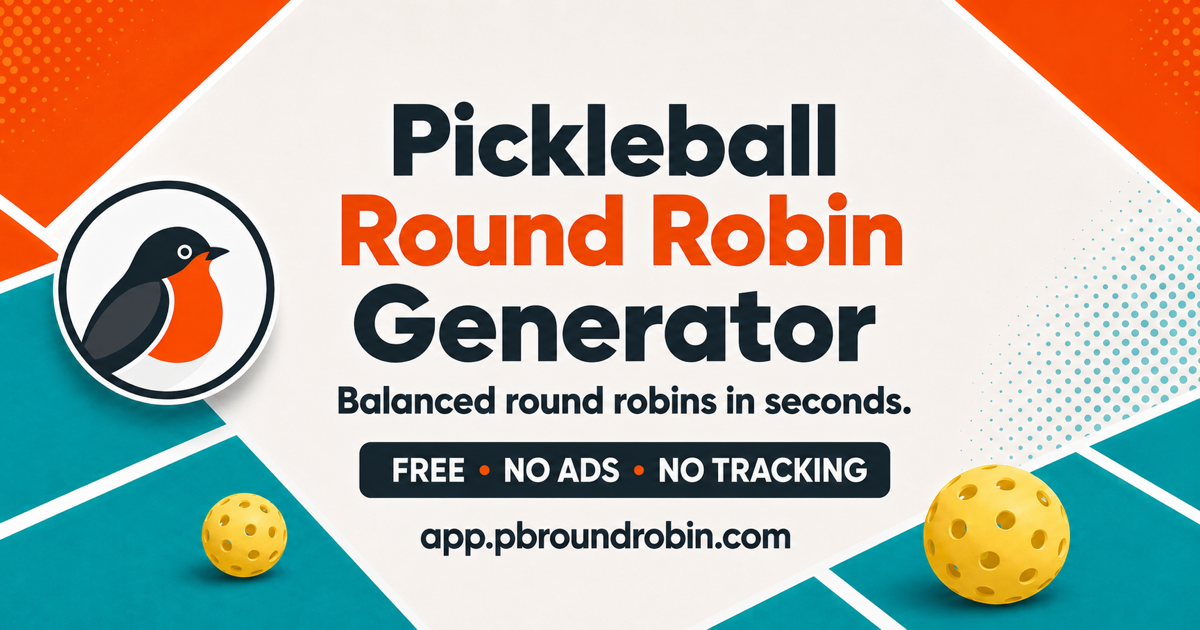
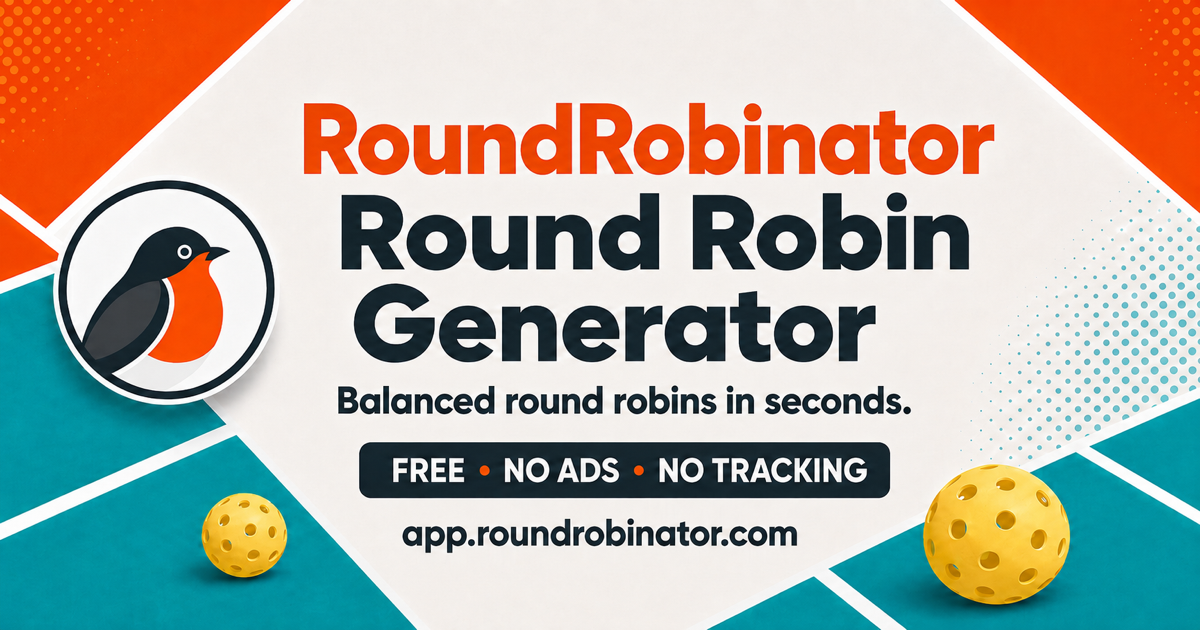
Ship 3.80: the app moves to roundrobinator.com, and the old address stays put
The rename of 3.79 was the copy half. This is the infrastructure half: the
address, the contact email, the Ko-fi page and the share banner.

APP_URL, FEEDBACK_EMAIL and DONATE_URL are still the only three places an
address is typed, and index.html is still the one file that has to write the
host out again for the share scrapers. appDomain.test.ts holds those two
together and bans the old host from the source, the way appName.test.ts does
for the old name.

app.pbroundrobin.com is deliberately not retired and must never be. Printed QR
codes carry it, and a browser keeps a site's stored data per address, so every
install made before today keeps its rosters in that origin. Redirecting it
would erase them with no way back. The other three old hostnames redirect and
are free to change. That one is not, which is why it is written into CLAUDE.md
and the comment above APP_URL as well as the product notes.

diff --git a/src/lib/appDomain.test.ts b/src/lib/appDomain.test.ts
@@ -1,0 +1,127 @@
+/**
+ * The app lives at app.roundrobinator.com, and it says so with one voice.
+ *
+ * Sibling of appName.test.ts, guarding the other half of the rebrand and
+ * against the same failure: not a broken build, but one surface still handing
+ * out the old address months later, rendering perfectly, seen by nobody who
+ * would recognise it as wrong. A QR code is the worst of these, because it is
+ * printed and carried to a court before anyone reads it.
+ *
+ * Three constants in appInfo.ts carry an address between them, and everything
+ * in the app reads from those three. `index.html` is the exception it cannot
+ * avoid: share-preview scrapers need absolute URLs and static HTML cannot
+ * import, so it writes the host out again and is checked against APP_URL here.
+ *
+ * ## What this file does NOT say
+ *
+ * The old host is banned from the source. It is emphatically **not** retired
+ * from the internet. `app.pbroundrobin.com` must keep serving this app, at that
+ * exact address, for good:
+ *
+ *   - printed schedules and QR codes already carry it to courts, and
+ *   - every home-screen install made before 2026-08-23 lives in that origin's
+ *     storage. A browser keeps a site's data per address. Point that host
+ *     anywhere else and those hosts open the app to an empty roster, with no
+ *     way back to their groups.
+ *
+ * That is the one change in this rebrand that would destroy user data, so it is
+ * written down here where somebody tidying up will read it.
+ */
+
+import { readdirSync, readFileSync, statSync } from 'node:fs';
+import { join, relative, resolve } from 'node:path';
+import { describe, expect, it } from 'vitest';
+import { APP_URL, DONATE_URL, FEEDBACK_EMAIL } from './appInfo';
+
+const root = resolve(__dirname, '../..');
+const src = resolve(root, 'src');
+const read = (path: string) => readFileSync(resolve(root, path), 'utf8');
+
+const DOMAIN = 'roundrobinator.com';
+
+/** Banned in the source. Still very much alive in DNS: see the note above. */
+const OLD_DOMAIN = 'pbroundrobin';
+
+/**
+ * The two files allowed to say the old host out loud. `appInfo.ts` records the
+ * move in the comment above APP_URL, together with the warning about never
+ * retiring it, which is where somebody changing that line will read it. This
+ * one has to hold the string in order to ban it.
+ */
+const HOME = 'src/lib/appInfo.ts';
+const SELF = 'src/lib/appDomain.test.ts';
+
+/**
+ * The static files, which have no build step and so cannot import a constant.
+ * `index.html` writes the host out for the scrapers; the two legal pages carry
+ * the contact address, and are the copy a store listing links to.
+ */
+const STATIC_FILES = ['index.html', 'public/privacy.html', 'public/terms.html'];
+
+function walk(dir: string): string[] {
+  return readdirSync(dir).flatMap((entry) => {
+    const full = join(dir, entry);
+    return statSync(full).isDirectory() ? walk(full) : [full];
+  });
+}
+
+const sources = walk(src)
+  .filter((f) => /\.(ts|tsx)$/.test(f))
+  .map((f) => relative(root, f).split('\\').join('/'));
+
+describe('the app has one address', () => {
+  it('finds the source files to check, so a passing suite is not an empty one', () => {
+    expect(sources.length).toBeGreaterThan(50);
+    expect(sources).toContain(SELF);
+    expect(sources).toContain(HOME);
+  });
+
+  it('points the three constants at it', () => {
+    expect(APP_URL).toBe(`https://app.${DOMAIN}/`);
+    expect(FEEDBACK_EMAIL).toBe(`jeff@${DOMAIN}`);
+    expect(DONATE_URL).toBe('https://ko-fi.com/roundrobinator');
+  });
+
+  it('ends APP_URL with a slash, because share links are built by appending', () => {
+    // `${APP_URL}?s=CODE` is what a QR code encodes. Drop the slash and every
+    // printed code carries a malformed URL that no test of the QR itself would
+    // notice, because the encoding would still be perfect.
+    expect(APP_URL.endsWith('/')).toBe(true);
+    expect(() => new URL(APP_URL)).not.toThrow();
+    expect(new URL(`${APP_URL}?s=ABCDEFGHJK`).host).toBe(`app.${DOMAIN}`);
+  });
+
+  it('has left nothing behind under the old one', () => {
+    const stale = sources
+      .filter((f) => f !== HOME && f !== SELF)
+      .filter((f) => read(f).includes(OLD_DOMAIN));
+    expect(stale).toEqual([]);
+  });
+});
+
+describe('the files that cannot import it', () => {
+  for (const file of STATIC_FILES) {
+    it(`${file} carries the address, and only the current one`, () => {
+      const text = read(file);
+      expect(text).toContain(DOMAIN);
+      expect(text).not.toContain(OLD_DOMAIN);
+    });
+  }
+
+  it('gives the scrapers the same host the app hands out', () => {
+    // A share preview pointing at one host while Share App sends another is the
+    // sort of split nobody sees until a link previews as the wrong thing.
+    const html = read('index.html');
+    expect(html).toContain(`<meta property="og:url" content="${APP_URL}" />`);
+    for (const tag of ['og:image', 'twitter:image']) {
+      const found = html.match(new RegExp(`${tag}" content="([^"]+)"`))?.[1];
+      expect(found).toBe(`${APP_URL}og-banner.png`);
+    }
+  });
+
+  it('reaches the contact address from both legal pages', () => {
+    for (const page of ['public/privacy.html', 'public/terms.html']) {
+      expect(read(page)).toContain(`mailto:${FEEDBACK_EMAIL}`);
+    }
+  });
+});

diff --git a/src/lib/appInfo.ts b/src/lib/appInfo.ts
@@ -10,7 +10,7 @@
  * The second digit is a milestone and moves only when he says so. Nothing
  * parses this string, so the shape is free to change.
  */
-export const APP_VERSION = '3.79';
+export const APP_VERSION = '3.80';
 
 /**
  * The commit this build was made from, written in by vite.config.ts.
@@ -66,11 +66,17 @@ export const ACCOUNTS_ENABLED = true;
  * Not quite the one place to change: `index.html` writes this host out again in
  * its og:url and og:image, because share-preview scrapers need absolute URLs and
  * static HTML cannot import a constant. Change this and change those too.
+ * `appDomain.test.ts` holds the two together.
+ *
+ * Moved here from `app.pbroundrobin.com` on 2026-08-23, with the rename. That
+ * host is banned from this source and must stay alive on the internet forever:
+ * printed QR codes carry it, and every install made before the move keeps its
+ * rosters in that origin's storage. Retiring it would erase them.
  */
-export const APP_URL = 'https://app.pbroundrobin.com/';
+export const APP_URL = 'https://app.roundrobinator.com/';
 
 /** Where Suggest a Feature and Report a Bug are sent. */
-export const FEEDBACK_EMAIL = 'jeff@pbroundrobin.com';
+export const FEEDBACK_EMAIL = 'jeff@roundrobinator.com';
 
 /**
  * The privacy policy, as a real address rather than a panel.
@@ -98,7 +104,7 @@ export const TERMS_URL = '/terms.html';
  * so there is never a dead button. Typed as string rather than the literal so
  * that check stays meaningful.
  */
-export const DONATE_URL: string = 'https://ko-fi.com/pbroundrobin';
+export const DONATE_URL: string = 'https://ko-fi.com/roundrobinator';
 
 /**
  * The app's name, and the line that says what it is.

diff --git a/src/components/live/LiveSessionPage.test.ts b/src/components/live/LiveSessionPage.test.ts
@@ -821,7 +821,7 @@ describe('watching a session', () => {
     const open_ = [...container.querySelectorAll('a')].find(
       (a) => a.textContent === 'Create a round robin'
     );
-    expect(open_?.getAttribute('href')).toBe('https://app.pbroundrobin.com/');
+    expect(open_?.getAttribute('href')).toBe('https://app.roundrobinator.com/');
   });
 
   it('breaks the heading into two lines without running the words together', async () => {
@@ -857,7 +857,7 @@ describe('watching a session', () => {
       'RoundRobinator',
       'Round Robin Generator',
     ]);
-    expect(title?.getAttribute('href')).toBe('https://app.pbroundrobin.com/');
+    expect(title?.getAttribute('href')).toBe('https://app.roundrobinator.com/');
   });
 
   it('takes the badge and the small line to the app as well as the name', async () => {
@@ -868,7 +868,7 @@ describe('watching a session', () => {
     const links = [...container.querySelectorAll('header a')];
     expect(links).toHaveLength(3);
     for (const link of links) {
-      expect(link.getAttribute('href')).toBe('https://app.pbroundrobin.com/');
+      expect(link.getAttribute('href')).toBe('https://app.roundrobinator.com/');
     }
 
     // The badge is painted into the banner's artwork, so its link has no words
@@ -897,7 +897,7 @@ describe('when there is nothing to watch', () => {
     answer = { state: 'gone' };
     await open();
     const home = [...container.querySelectorAll('a')].map((a) => a.getAttribute('href'));
-    expect(home).toContain('https://app.pbroundrobin.com/');
+    expect(home).toContain('https://app.roundrobinator.com/');
   });
 
   it('asks for a reload when the document is from a newer app', async () => {

diff --git a/api/feedback.ts b/api/feedback.ts
@@ -5,7 +5,7 @@ import { FEEDBACK_EMAIL } from '../src/lib/appInfo';
  * Suggest a Feature and Report a Bug, sent for real.
  *
  * The one piece of server this app has. It exists because the Resend key is a
- * password: anything that can send mail as pbroundrobin.com has to stay out of
+ * password: anything that can send mail as roundrobinator.com has to stay out of
  * the browser bundle, so the browser posts here and this posts to Resend.
  *
  * Deployed by the same push to main that deploys the app. The only thing it
@@ -60,10 +60,10 @@ export default async function handler(request: Request): Promise<Response> {
 
   const key = process.env.RESEND_API_KEY;
   // Overridable, but the defaults are the ones to run with. The from address
-  // has to sit on a domain verified in Resend, which pbroundrobin.com already
+  // has to sit on a domain verified in Resend, which roundrobinator.com already
   // is: it is where the sign-in codes come from.
   const to = process.env.FEEDBACK_TO ?? FEEDBACK_EMAIL;
-  const from = process.env.FEEDBACK_FROM ?? 'PB Round Robin <feedback@pbroundrobin.com>';
+  const from = process.env.FEEDBACK_FROM ?? 'RoundRobinator <feedback@roundrobinator.com>';
 
   if (!key) {
     return json({ error: 'Sending is not set up right now. Please try again later.' }, 503);

diff --git a/public/privacy.html b/public/privacy.html
@@ -270,7 +270,7 @@
       <p>
         RoundRobinator is made and run by Jeff Baker, in
         Canada. It is one person, not a company. For anything on this page, write
-        to <a href="mailto:jeff@pbroundrobin.com">jeff@pbroundrobin.com</a>.
+        to <a href="mailto:jeff@roundrobinator.com">jeff@roundrobinator.com</a>.
       </p>
 
       <h2>Using the app without an account</h2>
@@ -506,7 +506,7 @@
       <p>
         You can also ask me to correct something, ask what is held, or object to
         any of it, at
-        <a href="mailto:jeff@pbroundrobin.com">jeff@pbroundrobin.com</a>. I will
+        <a href="mailto:jeff@roundrobinator.com">jeff@roundrobinator.com</a>. I will
         answer within thirty days. In Canada, if you are not satisfied with my
         answer you can complain to the Office of the Privacy Commissioner of
         Canada. In the UK or the EU, you can complain to your national data
@@ -553,7 +553,7 @@
       <div class="inner">
         <p>
           Last updated 9 August 2026. Questions to
-          <a href="mailto:jeff@pbroundrobin.com">jeff@pbroundrobin.com</a>.
+          <a href="mailto:jeff@roundrobinator.com">jeff@roundrobinator.com</a>.
         </p>
         <p><a href="/terms.html">Terms of Service</a></p>
       </div>

diff --git a/index.html b/index.html
@@ -93,8 +93,8 @@
       property="og:description"
       content="Build fair pickleball round robins in seconds. Free, no ads, and no account needed."
     />
-    <meta property="og:url" content="https://app.pbroundrobin.com/" />
-    <meta property="og:image" content="https://app.pbroundrobin.com/og-banner.png" />
+    <meta property="og:url" content="https://app.roundrobinator.com/" />
+    <meta property="og:image" content="https://app.roundrobinator.com/og-banner.png" />
     <meta property="og:image:type" content="image/png" />
     <meta property="og:image:width" content="1200" />
     <meta property="og:image:height" content="630" />
@@ -108,7 +108,7 @@
       name="twitter:description"
       content="Build fair pickleball round robins in seconds. Free, no ads, and no account needed."
     />
-    <meta name="twitter:image" content="https://app.pbroundrobin.com/og-banner.png" />
+    <meta name="twitter:image" content="https://app.roundrobinator.com/og-banner.png" />
 
     <!--
       The strip's own CSS, inline because it has to be. #top-pin is in the body

diff --git a/src/lib/feedbackEndpoint.test.ts b/src/lib/feedbackEndpoint.test.ts
@@ -23,7 +23,7 @@ const REPORT = {
 
 /** A POST as the browser would make it, from a fresh address each time. */
 function post(body: unknown, ip = `10.0.0.${Math.floor(Math.random() * 250)}`) {
-  return new Request('https://app.pbroundrobin.com/api/feedback', {
+  return new Request('https://app.roundrobinator.com/api/feedback', {
     method: 'POST',
     headers: { 'Content-Type': 'application/json', 'x-forwarded-for': ip },
     body: typeof body === 'string' ? body : JSON.stringify(body),
@@ -98,7 +98,7 @@ describe('what it refuses', () => {
 
   it('will not be read from with a GET', async () => {
     const response = await handler(
-      new Request('https://app.pbroundrobin.com/api/feedback', { method: 'GET' })
+      new Request('https://app.roundrobinator.com/api/feedback', { method: 'GET' })
     );
     expect(response.status).toBe(405);
     expect(fetchMock).not.toHaveBeenCalled();

diff --git a/src/lib/monitoring.test.ts b/src/lib/monitoring.test.ts
@@ -157,8 +157,8 @@ describe('scrub', () => {
   });
 
   it('removes what a link carries, because the sign-in code rides there', () => {
-    expect(scrub('failed at https://app.pbroundrobin.com/?code=abc123def')).toBe(
-      'failed at https://app.pbroundrobin.com/?[removed]'
+    expect(scrub('failed at https://app.roundrobinator.com/?code=abc123def')).toBe(
+      'failed at https://app.roundrobinator.com/?[removed]'
     );
   });
 
@@ -354,7 +354,7 @@ describe('scrubEvent', () => {
     const event = scrubEvent({
       message: 'trouble for Katherine',
       exception: { values: [{ value: 'also Katherine' }] },
-      request: { url: 'https://app.pbroundrobin.com/?code=secret' },
+      request: { url: 'https://app.roundrobinator.com/?code=secret' },
       user: { id: 'abc' },
     });
 

diff --git a/public/terms.html b/public/terms.html
@@ -441,7 +441,7 @@
       <h2>Getting in touch</h2>
       <p>
         Anything on this page, or anything else about the app, goes to
-        <a href="mailto:jeff@pbroundrobin.com">jeff@pbroundrobin.com</a>. It
+        <a href="mailto:jeff@roundrobinator.com">jeff@roundrobinator.com</a>. It
         reaches one person, which is me.
       </p>
 
@@ -452,7 +452,7 @@
       <div class="inner">
         <p>
           Last updated 9 August 2026. Questions to
-          <a href="mailto:jeff@pbroundrobin.com">jeff@pbroundrobin.com</a>.
+          <a href="mailto:jeff@roundrobinator.com">jeff@roundrobinator.com</a>.
         </p>
         <p><a href="/privacy.html">Privacy Policy</a></p>
         <p>&copy; 2026 Jeff Baker. All rights reserved.</p>

diff --git a/src/components/schedule/LiveShareView.test.ts b/src/components/schedule/LiveShareView.test.ts
@@ -13,12 +13,12 @@ import { describe, it, expect, afterEach, vi } from 'vitest';
 import { createElement, act } from 'react';
 import { createRoot, type Root } from 'react-dom/client';
 
-const url = 'https://app.pbroundrobin.com/?s=ABCDEFGHJK';
+const url = 'https://app.roundrobinator.com/?s=ABCDEFGHJK';
 
 vi.mock('../../lib/liveSession', () => {
   // One object, handed back every time. useSyncExternalStore compares
   // snapshots by identity, so a fresh one per call is an infinite render.
-  const status = { state: 'live', url: 'https://app.pbroundrobin.com/?s=ABCDEFGHJK' };
+  const status = { state: 'live', url: 'https://app.roundrobinator.com/?s=ABCDEFGHJK' };
   return {
     liveStatusStore: {
       get: () => status,

diff --git a/src/lib/qr.test.ts b/src/lib/qr.test.ts
@@ -14,7 +14,7 @@
 import { describe, it, expect } from 'vitest';
 import { qrModules, qrPath, qrSize, QUIET_ZONE, type QrModules } from './qr';
 
-const LINK = 'https://app.pbroundrobin.com/?s=K7M2QXV9TB';
+const LINK = 'https://app.roundrobinator.com/?s=K7M2QXV9TB';
 
 /**
  * The 7x7 block in a corner of every QR code: a solid ring, a light ring
@@ -62,7 +62,7 @@ describe('encoding a link', () => {
 
   it('gives a different square for a different link', async () => {
     const one = await qrModules(LINK);
-    const other = await qrModules('https://app.pbroundrobin.com/?s=ZZZZZZZZZZ');
+    const other = await qrModules('https://app.roundrobinator.com/?s=ZZZZZZZZZZ');
     expect(other).not.toEqual(one);
   });
 

diff --git a/src/components/PanelGlyph.test.ts b/src/components/PanelGlyph.test.ts
@@ -422,7 +422,7 @@ describe('the foot of the settings drawer', () => {
 
   it('keeps the whole email address on one line', () => {
     // It used to break wherever the line ran out, which left "m" alone under
-    // jeff@pbroundrobin.co and read as two addresses rather than one. Whole or
+    // jeff@roundrobinator.co and read as two addresses rather than one. Whole or
     // wrapped entire, never split: break-all is the class that split it.
     openDrawer();
     const link = container.querySelector('a[href^="mailto:"]')!;
